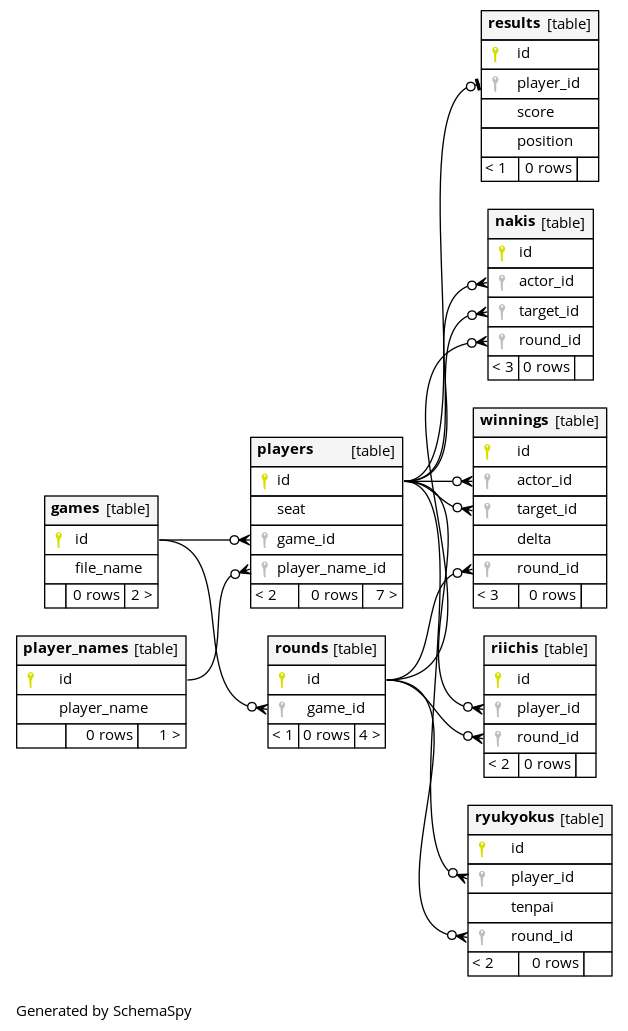
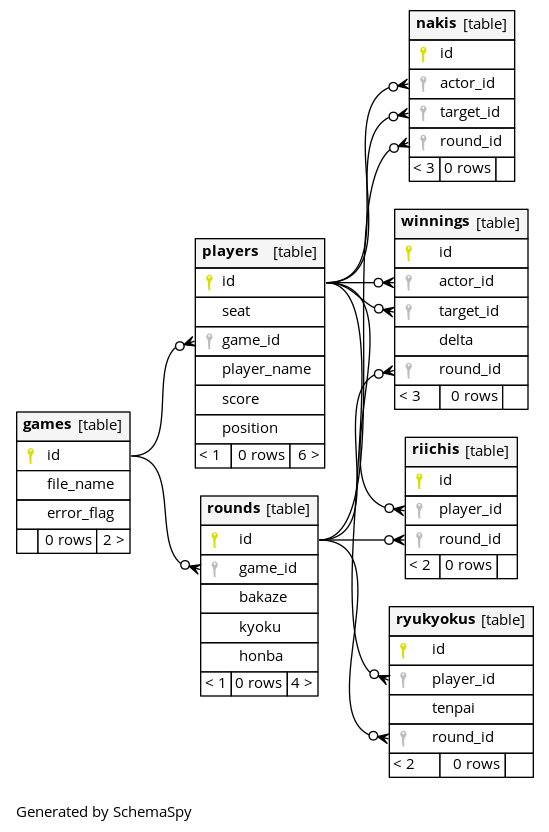
テーブル構造を変更

Changed region(s): [[0.0, 0.0, 0.9909, 0.9688], [0.031, 0.9688, 0.3406, 1.0]]

diff --git a/mjai/src/analyze.rb b/mjai/src/analyze.rb
@@ -18,24 +18,22 @@ class Analyzer
     @game_id = result[0]["lastval"]
   end
 
-  def insert_name(name)
-    result = @connection.exec("SELECT * FROM player_names WHERE player_name = '#{name}'")
-
-    if result.ntuples == 0
-      @connection.exec("INSERT INTO player_names VALUES (default,'#{name}')")
-    end
+  def update_game()
+    @connection.exec("UPDATE games SET error_flag = TRUE WHERE id = #{@game_id}")
   end
 
   def insert_player(seat, name)
-    result = @connection.exec("SELECT * FROM player_names WHERE player_name = '#{name}'")
-    player_name_id = result[0]["id"]
-    @connection.exec("INSERT INTO players VALUES (default,#{seat},#{@game_id},'#{player_name_id}')")
+    @connection.exec("INSERT INTO players(seat,game_id,player_name) VALUES (#{seat},#{@game_id},'#{name}')")
     result = @connection.exec("SELECT LASTVAL()")
     @player_id[seat] = result[0]["lastval"]
   end
 
-  def insert_round()
-    @connection.exec("INSERT INTO rounds VALUES (default,#{@game_id})")
+  def update_player(seat, score, position)
+    @connection.exec("UPDATE players SET score = #{score}, position = #{position} WHERE id = #{@player_id[seat]}")
+  end
+
+  def insert_round(bakaze, kyoku, honba)
+    @connection.exec("INSERT INTO rounds VALUES (default,#{@game_id},'#{bakaze}',#{kyoku},#{honba})")
     result = @connection.exec("SELECT LASTVAL()")
     @round_id = result[0]["lastval"]
   end
@@ -56,21 +54,16 @@ class Analyzer
     @connection.exec("INSERT INTO ryukyokus VALUES (default,#{@player_id[actor]},#{tenpai},#{@round_id})")
   end
 
-  def insert_result(seat, score, position)
-    @connection.exec("INSERT INTO results VALUES (default,#{@player_id[seat]},#{score},#{position})")
-  end
-
   def start_game(message)
     insert_game()
 
     message["names"].each_with_index do |name, index|
-      insert_name(name)
       insert_player(index, name)
     end
   end
 
   def start_kyoku(message)
-    insert_round()
+    insert_round(message["bakaze"], message["kyoku"], message["honba"])
   end
 
   def reach(message)
@@ -102,29 +95,28 @@ class Analyzer
   def end_game(message)
     scores = message["scores"]
     i = 0
-    positions = [*0..3].sort_by{|v| [-scores[v], i+=1]}
+    seats = [*0..3].sort_by{|v| [-scores[v], i+=1]}
 
     4.times do |i|
-      insert_result(positions[i], scores[positions[i]], i+1)
+      update_player(seats[i], scores[seats[i]], i+1)
     end
   end
 
   def execute()
     File.open(@file_name) do |file|
       lines = file.readlines
-      message = JSON.parse(lines.last)
 
-      if message['type'] != 'end_game'
-        return
-      end
-
-      lines.each do |line|
+      for line in lines
         message = JSON.parse(line)
     
         begin
           self.send("#{message['type']}", message)
         rescue NoMethodError
         end
+      end
+
+      if message['type'] != 'end_game'
+        update_game()
       end
     end
   end
